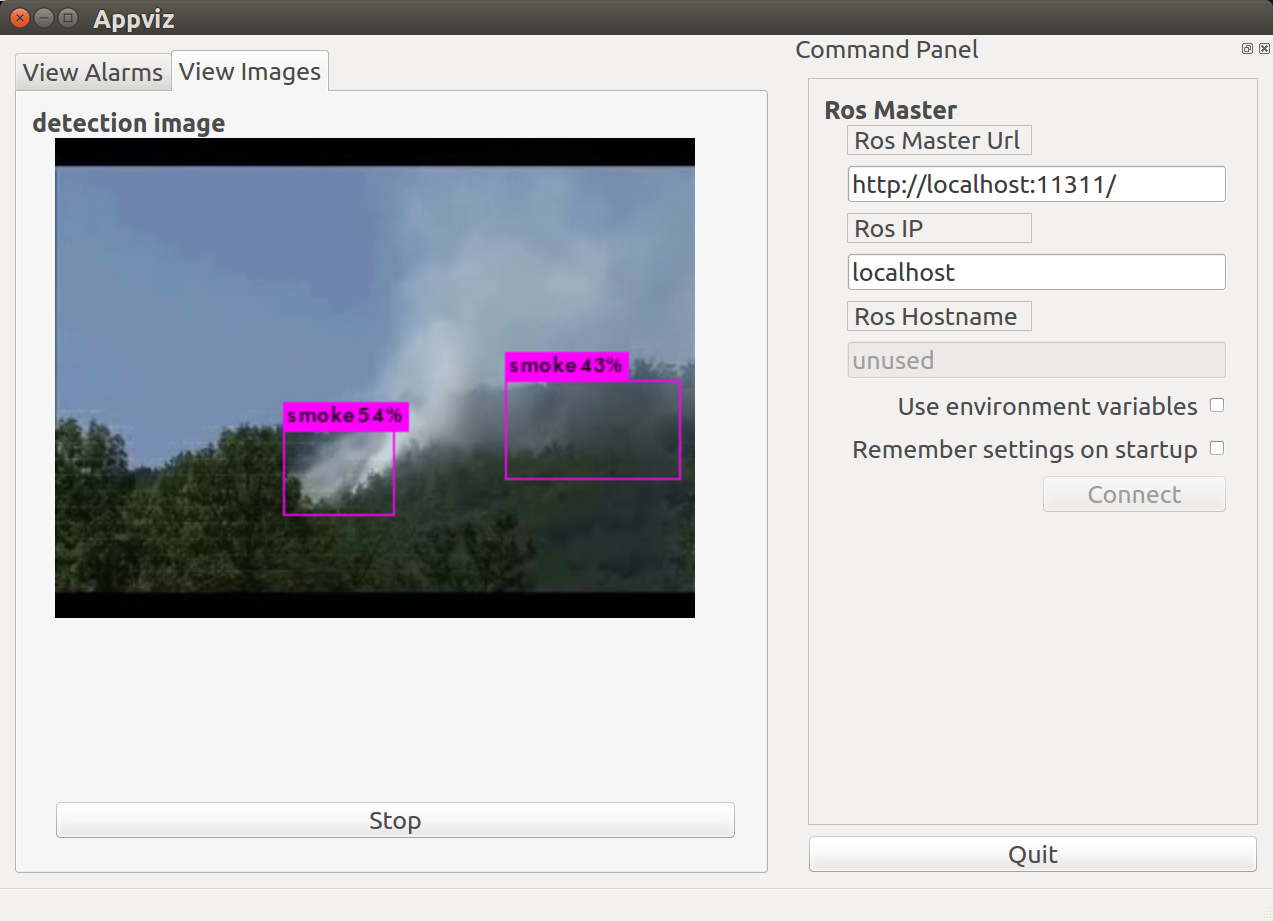
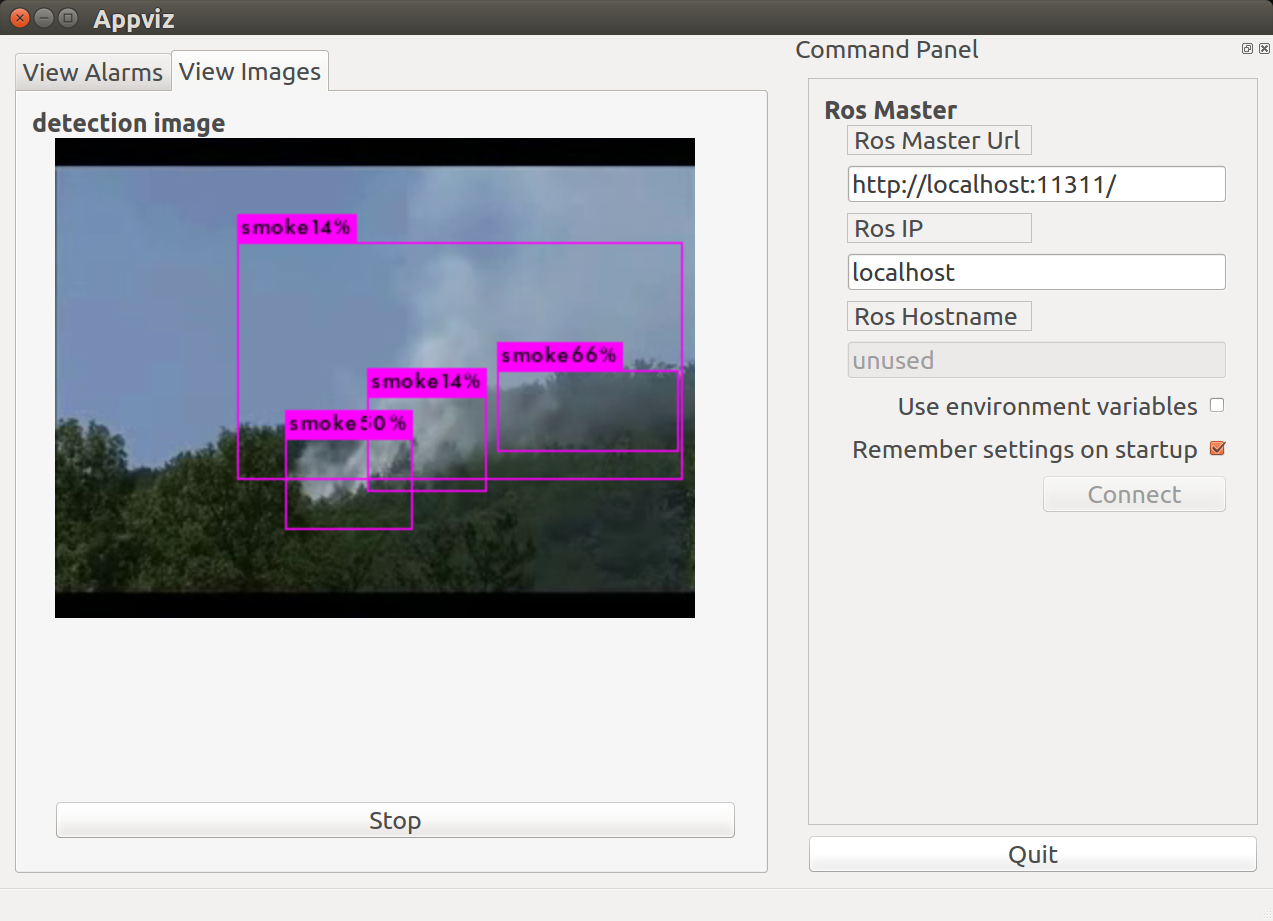
minor changes

Changed region(s): [[0.1838, 0.2128, 0.5515, 0.5776], [0.9497, 0.4864, 0.9804, 0.5168], [0.337, 0.3344, 0.3676, 0.3648]]

diff --git a/appviz/src/mainwindow.cpp b/appviz/src/mainwindow.cpp
@@ -27,6 +27,10 @@ MainWindow::~MainWindow(){
     delete ui;
 }
 
+void MainWindow::on_checkbox_remember_settings_stateChanged(int state){
+    if(state == 1)  ReadSettings();
+}
+
 void MainWindow::on_button_play_clicked(){
     showImage = !showImage;
     if(showImage)  ui->button_play->setText("Stop");
@@ -101,7 +105,7 @@ void MainWindow::ReadSettings() {
     ui->line_edit_master->setText(master_url);
     ui->line_edit_host->setText(host_url);
     bool remember = settings.value("remember_settings", false).toBool();
-    ui->checkbox_remember_settings->setChecked(remember);
+    //ui->checkbox_remember_settings->setChecked(remember);
     bool checked = settings.value("use_environment_variables", false).toBool();
     ui->checkbox_use_environment->setChecked(checked);
     if ( checked ) {

diff --git a/appviz/include/mainwindow.h b/appviz/include/mainwindow.h
@@ -27,6 +27,7 @@ private slots:
     void on_actionAbout_triggered();
     void on_button_connect_clicked(bool check);
     void on_checkbox_use_environment_stateChanged(int state);
+    void on_checkbox_remember_settings_stateChanged(int state);
     void on_button_play_clicked();
     void updateLoggingView();
     void updateFrame();

diff --git a/README.md b/README.md
@@ -16,9 +16,10 @@ __This package is not sufficient for performing the task.__
    ```
    catkin_make -DCATKIN_WHITELIST_PACKAGES="smoke"
    ```
-   If you have Qt5 installed, a gui would be built for simple visualization.
+   If you have Qt5 installed, a gui would be built for simple visualization (as follows).
+   ![image](doc/Appviz_image.png)
 
-   The first build may not finish successfully. Please try again.
+   The build may not finish once. Please try again.
 
 2. Run
    * launch webcam using [usb_cam](https://github.com/ros-drivers/usb_cam).
